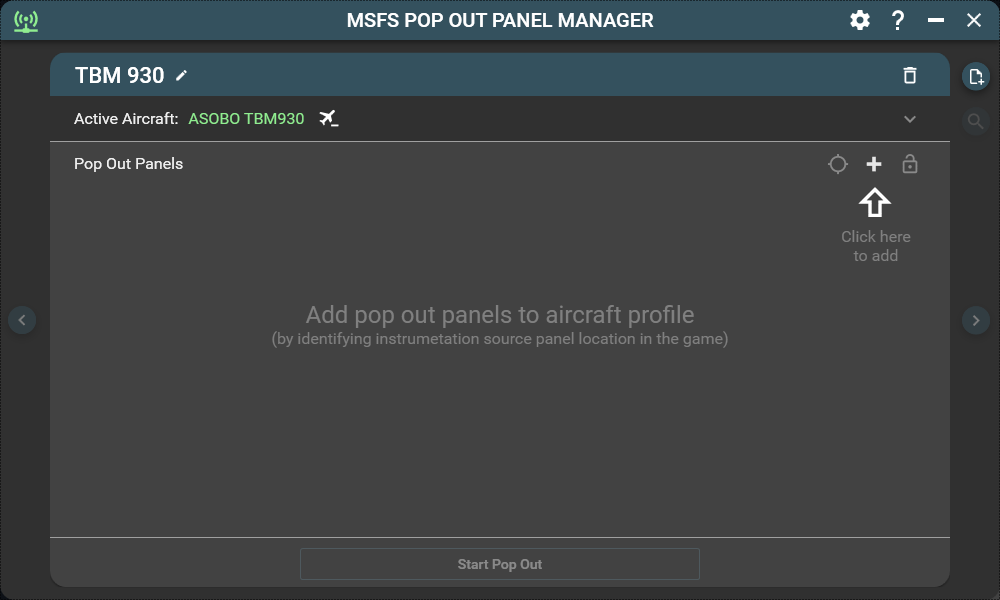
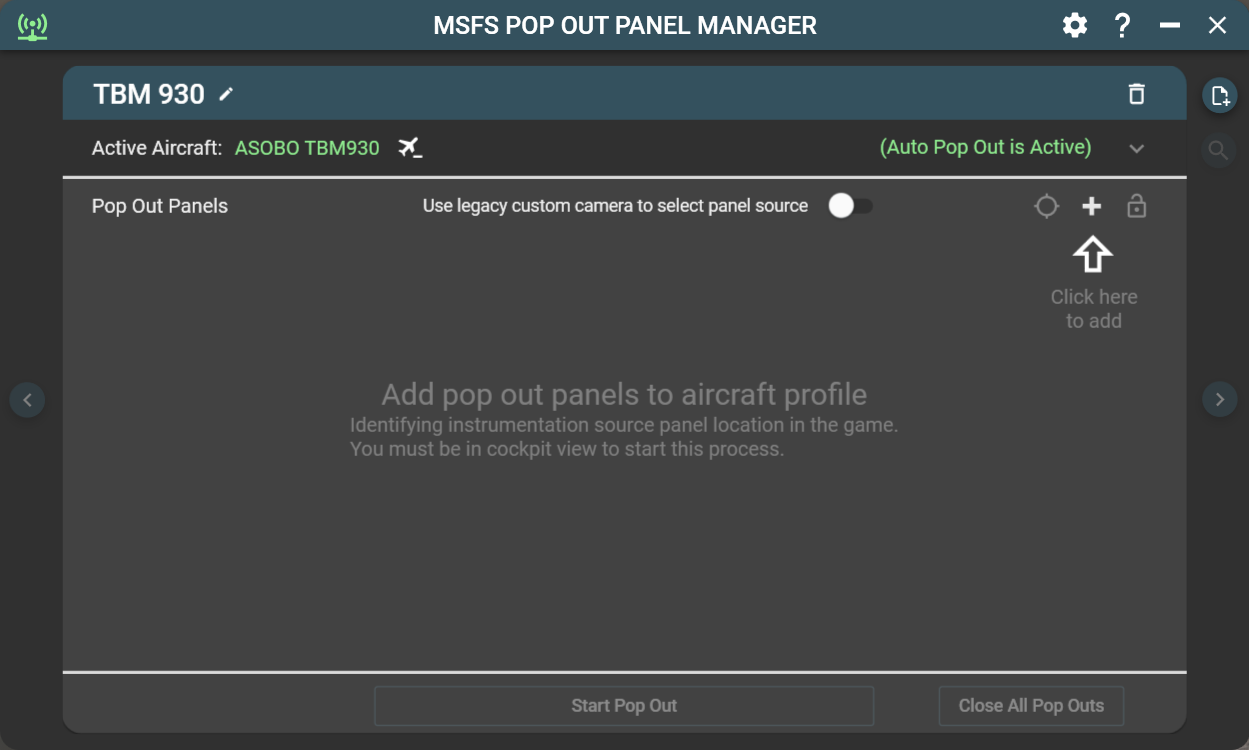
Version 4.1.0 Release

diff --git a/GETTING_STARTED.md b/GETTING_STARTED.md
@@ -2,7 +2,7 @@
 
 In this tutorial, you'll be adding 3 pop out panels for the aircraft TBM 930. Two of the panels is display only (PFD and MFD) and the third is a touch screen pop out (GTC 580).
 
-To get started, launch MSFS Pop Out Panel Manager and then start MSFS. When you are at the main menu select TBM 930 as your aircraft. You do not have to start a flight session yet. Back to Pop Out Panel Manager, you should see the following screen and you can click the Add Profile button to add your first aircraft profile. 
+To get started, launch MSFS Pop Out Panel Manager and then start MSFS. When you are at the main menu select TBM 930 as your aircraft and start a flight session. Back to Pop Out Panel Manager, you should see the following screen and you can click the Add Profile button to add your first aircraft profile. 
 
 <br />
 <p align="center">
@@ -24,7 +24,7 @@ Type the name for the new aircraft profile "TBM 930" and click Accept.
 <hr>
 <br />
 
-Since your current in game aircraft is TBM 930, once the new profile is added, your selected active in-game aircraft will automatically bind this profile (in green color). This binding will allow Pop Out Panel Manager to automatically switch to this profile when you switch to TBM 930 aicraft in the game. Only one profile can be bound to an in-game aircraft at a time and you can unbind aircraft at any time. Next click the Add Pop Out Panel button 3 times to add 3 panels to this profile.
+Since your current in game aircraft is TBM 930, once the new profile is added, your selected active in-game aircraft will automatically bind this profile (in green color) and auto pop out is automatically activated. This binding will allow Pop Out Panel Manager to automatically switch to this profile when you switch to TBM 930 aicraft in the game. Only one profile can be bound to an in-game aircraft at a time and you can unbind aircraft at any time. Next click the Add Pop Out Panel button 3 times to add 3 panels to this profile.
 
 <br /> 
 <p align="center">
@@ -35,7 +35,7 @@ Since your current in game aircraft is TBM 930, once the new profile is added, y
 <hr>
 <br />
 
-Once the 3 panels are added, enter a descriptive name for each of the 3 panels. When you're still in the game's main menu, Identify Source Panel Location button for the 3 panels will not be available. You will now need to start a flight with the TBM 930 aircraft. Please go to world map, pick an airport and start a flight. Once you're in a flight, the Identify Source Panel Location button will be enable.
+Once the 3 panels are added, enter descriptive name for each of the 3 panels.
 
 <br />
 <p align="center">
@@ -46,7 +46,7 @@ Once the 3 panels are added, enter a descriptive name for each of the 3 panels. 
 <hr>
 <br />
 
-Next, click the Identify Source Panel Location button one at a time. After each click of the button, left click on the game screen at the corresponding instrumentation panel in game to each of the pop out panel definition. A circle will appear to match the pop out panel circle color. If you need to adjust the color circle placement, just left click and drag the circle to new location. You can also zoom in and out of the cockpit view using your mouse wheel so you can see more in-game panels at a time.
+Next, click the "Identify" button one at a time. This is to identify the source instrumentation panel location. After each click of the button, left click on the game screen at the corresponding instrumentation panel in game. A circle will appear to match the pop out panel circle color. You can also change "fixed camera" view if you cannot see the panel you want on screen. If you need to adjust the color circle placement, just left click and drag the circle to new location.
 
 <br /> 
 <p align="center">
@@ -57,7 +57,9 @@ Next, click the Identify Source Panel Location button one at a time. After each 
 <hr>
 <br />
 
-Once you're satified with the color circles placement, click the Toggle Edit Source Panel Location button (the green target icon). This will end the source panel configuration and will save the current camera angle and your game window size (if using Windowed mode) to be recalled later to be used when popping out panels. The Start Pop Out button should now be enabled. Click this button and start the pop out process. If Pop Out Panel Manager app window is overlapping your selected instrumentation panels, don't worry, the app will relocate itself when simulating the in-game pop out keystrokes. You should also see a progress window indicating Pop Out Manager is in process of configuring and popping out panels.
+Once you're satified with the color circles placement for all panels, click the Toggle Edit Source Panel Location button (the green target icon). This will end the source panel configuration and will save your game window size (if using Windowed mode) to be recalled later to be used when popping out panels. Since the 3rd panel (GTN 580 touch) is also a touch enabled panel using POPM touch emulation, you can click the hand icon for this panel at this time. The hand will turn green which indicate the panel now has touch emulation enabled. 
+
+The Start Pop Out button should now be enabled. Click this button and start the pop out process. If Pop Out Panel Manager app window overlaps your selected instrumentation panels, don't worry, the app will relocate itself when simulating the in-game pop out keystrokes. You should also see a progress window indicating Pop Out Manager is in process of configuring and popping out panels.
 
 <br />
 <p align="center">
@@ -68,13 +70,13 @@ Once you're satified with the color circles placement, click the Toggle Edit Sou
 <hr>
 <br />
 
-Once the process has been completed successfully, you should see all 3 panels appear at the upper left corner of the game screen. All 3 pop out panels definition will now have green border showing everything is working. You can then configure the panel by:
+Once the process has been completed successfully, you should see all 3 panels appear at the upper left corner of the game screen. All 3 pop out panel definitions will now have green border showing everything is working and the panels are popped out using the default size specified by the particular aircraft. You can then configure the panel by:
 
-* Changing the top, left, width, and height by entering a number 
+* Change the top, left, width, and height by entering a number 
 * Use the up/down arrow next to each property and a pop out box will allow you to change the property by 1 or 10 pixels at a time.
 * For the fastest way, click the Move and Resize Panel icon, this will allow you to use keyboard shortcuts to adjust the panel. Please see help section of the app for keyboard commands (click the question mark icon at the upper right corner of the app).
 
-In this tutorial, since the 3rd panel is a touch enable panel (GTC 580). You can click the hand icon for this panel to activate touch support.
+In this tutorial, if you haven't done so, since the 3rd panel is a touch enable panel (GTC 580). You can click the hand icon for this panel to activate touch support.
 
 Once you've completed all panel configurations, please click the Lock icon to lock this profile from accidental changes.
 
@@ -88,17 +90,17 @@ Once you've completed all panel configurations, please click the Lock icon to lo
 <hr>
 <br />
 
-If you encounter any error during pop out, the panel with error will have a red border. You can click the Red Exclaimation mark icon for help to resolve the error. In this tutorial, the problem is the source panel blue circle for this particular pop out is not within the in-game instrumentation panel area. To fix this, click the Toggle Edit Source Panel button, and then use your mouse to drag and move the blue circle to a location within the GTC 580 panel. Finally, click the Toggle Edit Source Panel button again to save the changes. Now click Start Pop Out and the error should be resolved.
+If you encounter any error during pop out, the panel with error will have a red border. In this tutorial, the problem is the source panel blue circle for this particular pop out is not within the in-game instrumentation panel area. To fix this, click the Toggle Edit Source Panel button, and then use your mouse to drag and move the blue circle to a location within the GTC 580 panel. Finally, click the Toggle Edit Source Panel button again to save the changes. Now click Start Pop Out and the error should be resolved.
 
-Tip #1: If you have trouble finding the number circle on screen or figuring out the color circle you're dragging corresponding to which pop out panel, you can left click and hold either the pop out panel source target icon or the color circle itself and find the corresponding pop out panel or color circle. 
-
-Tip #2: Hovering your mouse on any input element may provide tool tip to further explain the function of each icon or action.
-
-Tip #3: Sometimes, you may encounter issue in MSFS that certain panel does not pop out correctly. You can try changing the order in how Pop Out Panel Manager launching the pop out by reording the pop out panel definition using mosue drag and drop. You can click and drag to arrange pop out panel definitions to new sequence.
+Tip: Sometimes, you may encounter issue in MSFS that certain panel does not pop out correctly because of timing or panel overlapping issues. You can try changing the order in how Pop Out Panel Manager launching the pop out by reording the pop out panel definition using mosue drag and drop. You can click and drag to arrange pop out panel definitions to new sequence.
 
 <br />
 <p align="center">
 <img src="assets/readme/images/gettingstarted8.png" width="900" hspace="10"/>
+</p>
+<br />
+<p align="center">
+<img src="assets/readme/images/gettingstarted8b.png" width="900" hspace="10"/>
 </p>
 
 <br />

diff --git a/README.md b/README.md
@@ -13,7 +13,16 @@ Please follow [FlightSimulator.com](https://forums.flightsimulator.com/t/msfs-po
 
 ## Getting Started
 
-[Please see Getting Started guide to setup your first profile](./GETTING_STARTED.md)
+[Please see Getting Started guide to setup your first profile](./GETTING_STARTED.md) - Updated for version 4.1.
+
+Video showing how to create a new aircraft profile and panel source selection:</br> 
+https://vimeo.com/917361559
+
+Video showing how to update existing aircraft profile (Pre-Version 4.1) to use the new panel selection method:</br> 
+https://vimeo.com/917364912 
+
+Video showing how to use the new floating panel feature:</br> 
+https://vimeo.com/918153200
 
 <br>
 
@@ -58,7 +67,7 @@ Please follow [FlightSimulator.com](https://forums.flightsimulator.com/t/msfs-po
 
 * Cold Start Feature. Instrumentation panels can be popped out even when they're not powered on (for G1000 Only) to overcome an outstanding MSFS bug.
 
-* Auto Panning feature remembers the cockpit camera angle when you first define the pop out panels. You can now pan, zoom in, and zoom out to identify offscreen panels and the camera angle will be saved and reused. This feature requires the use of Ctrl-Alt-0 keyboard binding to save custom camera view per plane configuration. (Can be configured to use 0 through 9). If the keyboard binding is currently being used. The auto-panning feature will overwrite the saved camera view if enabled.
+* (Version 4.1+ backward compatibility support) Auto Panning feature remembers the cockpit camera angle when you first define the pop out panels. You can now pan, zoom in, and zoom out to identify offscreen panels and the camera angle will be saved and reused. This feature requires the use of Ctrl-Alt-0 keyboard binding to save custom camera view per plane configuration. (Can be configured to use 0 through 9). If the keyboard binding is currently being used. The auto-panning feature will overwrite the saved camera view if enabled.
 
 * Fine-grain control of positioning of panels down to pixel level. 
 
